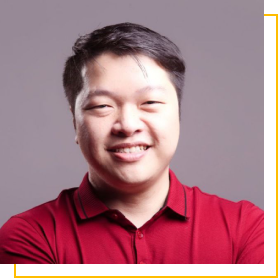
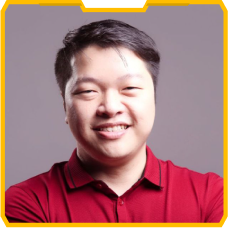
update team

diff --git a/components/home/our-principles.tsx b/components/home/our-principles.tsx
@@ -3,148 +3,78 @@
 import 'swiper/css'
 import 'swiper/css/pagination'
 
-import OurTeamImg01 from 'app/assets/images/our-team-01.png'
-import OurTeamImg02 from 'app/assets/images/our-team-02.png'
-import PrinciplesNumberImg01 from 'app/assets/images/principles-number-01.png'
-import PrinciplesNumberImg02 from 'app/assets/images/principles-number-02.png'
+import MrThanhDao from 'app/assets/images/our-team-01.png'
+import MrLogan from 'app/assets/images/our-team-02.png'
+import MsJosephine from 'app/assets/images/our-team-03.png'
+import MsDaisy from 'app/assets/images/our-team-04.png'
+import Linkedin from 'app/assets/images/linkedIn-icon.png'
 import Image from 'next/image'
-import { useState } from 'react'
-import { Autoplay, Pagination } from 'swiper/modules'
-import { Swiper, SwiperSlide } from 'swiper/react'
 
-const ourPrinciplesList = [
+const data = [
   {
-    title: 'Mr. THANH DAO',
-    detail: [
-      'Co-Founder & CTO of LaunchZone',
-      'Head of Investment & Application at VBA',
-      'Former CTO of Nexty, former CEO of Ezdeﬁ e-wallet',
-      'Inﬂuencer and guest speaker/ judge of many blockchain events/hackathon in Vietnam',
-    ],
-    image: OurTeamImg01,
-    numImg: PrinciplesNumberImg01,
-    profile: 'LinkedIn',
-    link: 'https://www.linkedin.com/in/techcomthanh/',
+    name: 'Mr. Thanh Dao',
+    title: 'FOUNDER',
+    image: MrThanhDao,
+    linkedin: 'https://www.linkedin.com/in/techcomthanh/',
   },
   {
-    title: 'Mr. LOGAN',
-    detail: [
-      'Co-Founder & CMO of LaunchZone',
-      'Founder of Mayor Capital',
-      'Founder of Crypto Sale Mastery',
-      'Influencer and community building expert in Vietnam’s financial industry',
-    ],
-    image: OurTeamImg02,
-    numImg: PrinciplesNumberImg02,
-    profile: 'Twitter',
-    link: 'https://twitter.com/logandefi',
+    name: 'Mr. Logan',
+    title: 'FOUNDER',
+    image: MrLogan,
+    linkedin: 'https://www.linkedin.com/in/logandefi/',
+  },
+  {
+    name: 'Ms. Josephine Huong Nguyen',
+    title: 'CEO',
+    image: MsJosephine,
+    linkedin: 'https://www.linkedin.com/in/josephinehuongnguyen/',
+  },
+  {
+    name: 'Ms. Daisy M',
+    title: 'Head of Barmy Ventures',
+    image: MsDaisy,
+    linkedin: 'https://www.linkedin.com/in/daisy-m-0050b199/',
   },
 ]
 
 export const OurPrinciples = () => {
-  const [swiper, setSwiper] = useState<unknown>(null)
-  const [slideIndex, setSlideIndex] = useState(0)
-
   return (
-    <section className="bg-primary p-0 lg:pb-[77px] lg:pt-[25px]">
+    <section className="bg-secondary p-0 lg:bg-primary lg:pb-[77px] lg:pt-[25px]">
       <div className="">
         <div className="ml-20 hidden items-center text-[32px] font-bold leading-[67px] lg:flex">
           <div className="relative z-[2] text-primary">
             <p className="relative z-[2] font-bold">
-              <span className="font-bold text-white">ADVISORY & MENTOR BOARDS</span>
+              <span className="font-bold text-white">Our Team</span>
             </p>
             <div
-              className="absolute -left-[10rem] -top-[40%] z-[1] hidden aspect-square 
+              className="absolute -left-[20rem] -top-[40%] z-[1] hidden aspect-square 
               w-[443px] -translate-y-1/2 rounded-full bg-secondary lg:block"
             ></div>
           </div>
         </div>
-        <h2 className="home-title ml-6 !text-white lg:hidden">ADVISORY & MENTOR BOARDS</h2>
+        <h2 className="home-title ml-6 py-10 !text-white lg:hidden">Our Team</h2>
       </div>
-
-      <div className="mt-4 bg-primary pt-10 lg:mt-0 lg:hidden">
-        <Swiper
-          className="yellow-invester-sw !pb-[74px]"
-          modules={[Autoplay, Pagination]}
-          effect="cards"
-          spaceBetween={16}
-          slidesPerView={1}
-          autoplay={true}
-          pagination
-          onSwiper={setSwiper}
-          onSlideChange={({ activeIndex }) => setSlideIndex(activeIndex)}
-        >
-          {ourPrinciplesList.map((_, idx, arr) => (
-            <SwiperSlide key={idx}>
-              <div className="px-6 font-poppins">
-                <div className="flex items-center justify-between">
-                  <Image src={_.image} alt={_.title} className="w-[91px]" />
-                  <Image src={_.numImg} alt={idx + 1 + ''} className="h-[77px]" />
-                </div>
-
-                <h3 className="pb-4 pt-[21px] text-sm font-bold leading-[26px] text-secondary">
-                  {_.title}
-                </h3>
-
-                <ul className="">
-                  {_.detail.map((item, idx) => (
-                    <li className="list-inside list-disc text-sm text-secondary" key={idx}>
-                      {item}
-                    </li>
-                  ))}
-                  <li className="list-inside list-disc text-sm text-secondary">
-                    {_.profile}:{' '}
-                    <span>
-                      <a href={_.link} className="" target={'_blank'}>
-                        {_.link}
-                      </a>
-                    </span>
-                  </li>
-                </ul>
-              </div>
-            </SwiperSlide>
+      <div className="flex content-center justify-center py-12">
+        <div className="grid grid-cols-1 gap-4 lg:grid-cols-2 lg:flex-row lg:gap-[135px]">
+          {data.map((_, idx) => (
+            <div
+              className="col-span-1 mb-[20px] text-center text-primary lg:mb-0 lg:text-secondary"
+              key={idx}
+            >
+              <Image className="m-auto" src={_.image} alt={_.name} />
+              <p className="m-auto mt-[19px] flex content-center justify-center text-xl font-bold leading-[37.5px]">
+                {_.name}{' '}
+                <span>
+                  <a href={_.linkedin} target="_blank">
+                    <Image className="ml-2 h-[33px] w-[33px]" src={Linkedin} alt={_.name} />
+                  </a>
+                </span>
+              </p>
+              <p className="mb-[9px] text-xl font-bold leading-[37.5px]">{_.title}</p>
+              {/* <p className="text-sm font-semibold italic leading-[26px] underline">{_.linkedin}</p> */}
+            </div>
           ))}
-        </Swiper>
-      </div>
-
-      <div className="hidden space-y-[47px] bg-primary pl-[120px] pr-[90px] lg:block">
-        {ourPrinciplesList.map((_, idx) => (
-          <div className="flex items-center" key={idx}>
-            <div className="relative z-[2] w-[278px]">
-              <Image src={_.image} alt={_.title} className="w-full" />
-            </div>
-
-            <div className="ml-[153px] mr-[105px] h-[77px] w-[115px]">
-              <Image
-                src={_.numImg}
-                alt={idx + 1 + ''}
-                className="h-full w-full object-contain object-right"
-              />
-            </div>
-
-            <div className="flex-1 space-y-3 font-poppins text-secondary">
-              <h3 className="text-xl font-bold leading-[37.5px]">{_.title}</h3>
-              <ul className="">
-                {_.detail.map((item, idx) => (
-                  <li
-                    className="list-inside list-disc text-left text-sm font-bold leading-[26px]"
-                    key={idx}
-                  >
-                    {item}
-                  </li>
-                ))}
-                <li className="list-inside list-disc text-left text-sm font-bold leading-[26px]">
-                  {_.profile}:{' '}
-                  <span>
-                    <a href={_.link} className="" target={'_blank'}>
-                      {_.link}
-                    </a>
-                  </span>
-                </li>
-              </ul>
-            </div>
-          </div>
-        ))}
+        </div>
       </div>
     </section>
   )

diff --git a/components/home/our-team.tsx b/components/home/our-team.tsx
@@ -1,35 +1,54 @@
 import React from 'react'
-import JosephineAvatar from 'app/assets/images/joseohine.png'
-import DaisyAvatar from 'app/assets/images/daisy.png'
+import MrThanhDao from 'app/assets/images/our-team-01.png'
+import MrLogan from 'app/assets/images/our-team-02.png'
+import MsJosephine from 'app/assets/images/our-team-03.png'
+import MsDaisy from 'app/assets/images/our-team-04.png'
 import Image from 'next/image'
 
 const data = [
   {
-    name: 'Josephine Huong Nguyen - CEO',
-    image: JosephineAvatar,
+    name: 'Mr. THANH DAO',
+    title: 'FOUNDER',
+    image: MrThanhDao,
     linkedin: 'https://www.linkedin.com/in/josephinehuongnguyen/',
   },
   {
     name: 'Daisy M - Head of Barmy Ventures',
-    image: DaisyAvatar,
+    title: 'FOUNDER',
+    image: MrLogan,
+    linkedin: 'https://www.linkedin.com/in/daisy-m-0050b199/',
+  },
+  {
+    name: 'Josephine Huong Nguyen - CEO',
+    title: 'CEO',
+    image: MsJosephine,
+    linkedin: 'https://www.linkedin.com/in/josephinehuongnguyen/',
+  },
+  {
+    name: 'Daisy M - Head of Barmy Ventures',
+    title: 'Head of Barmy Ventures',
+    image: MsDaisy,
     linkedin: 'https://www.linkedin.com/in/daisy-m-0050b199/',
   },
 ]
 
 const OurTeam = () => {
   return (
-    <div className="bg-secondary px-6 pb-[62px] lg:px-20" id="team-partner">
+    <div className="bg-primary px-6 pb-[62px] lg:px-20" id="team-partner">
       <h2 className="home-title !lg:text-primary pb-[25px] pt-4 !text-white lg:pb-[47px] lg:pt-[47px]">
         Our Team
       </h2>
-      <div className="flex flex-col justify-center gap-[35px] lg:flex-row lg:gap-[135px]">
-        {data.map((_, idx) => (
-          <div className="flex flex-col items-center justify-center text-primary" key={idx}>
-            <Image src={_.image} alt={_.name} />
-            <p className="mb-[9px] mt-[19px] text-xl font-bold leading-[37.5px]">{_.name}</p>
-            <p className="text-sm font-semibold italic leading-[26px] underline">{_.linkedin}</p>
-          </div>
-        ))}
+      <div className="flex content-center justify-center">
+        <div className="grid grid-cols-1 gap-4 lg:grid-cols-2 lg:flex-row lg:gap-[135px]">
+          {data.map((_, idx) => (
+            <div className="col-span-1 text-secondary" key={idx}>
+              <Image className="m-auto" src={_.image} alt={_.name} />
+              <p className="mt-[19px] text-xl font-bold leading-[37.5px]">{_.name}</p>
+              <p className="mb-[9px] text-xl font-bold leading-[37.5px]">{_.title}</p>
+              <p className="text-sm font-semibold italic leading-[26px] underline">{_.linkedin}</p>
+            </div>
+          ))}
+        </div>
       </div>
     </div>
   )

diff --git a/app/Main.tsx b/app/Main.tsx
@@ -26,7 +26,7 @@ export default function Home({ posts }) {
 
       <OurPrinciples />
 
-      <OurTeam />
+      {/* <OurTeam /> */}
 
       <TeamPartner />
       {/* <OutAdvisory /> */}
